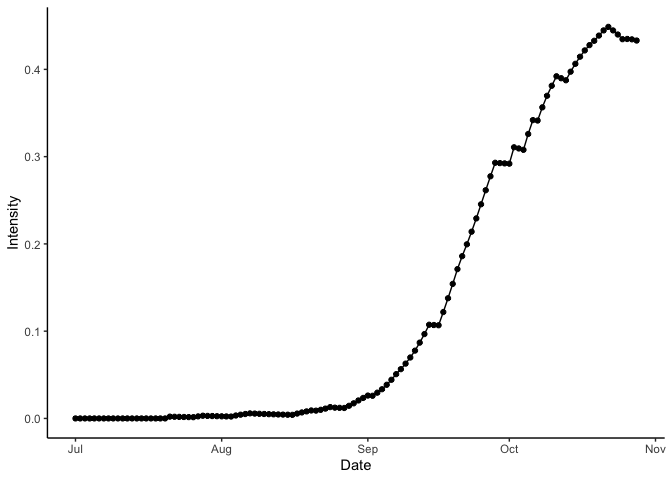
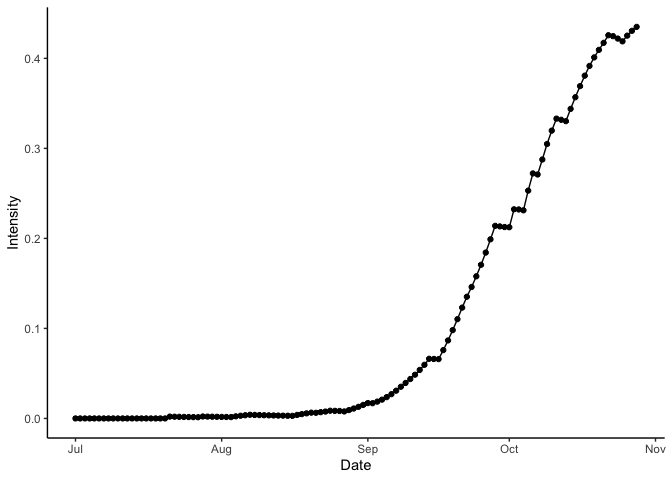
Reknit README with bug-fixed SEIR()

diff --git a/README.md b/README.md
@@ -97,30 +97,30 @@ transplanted rice.
 bb <- predict_bacterial_blight(wth, emergence = "2000-07-01")
 
 bb
-#>      simday      dates     sites   latent infectious  removed    senesced
-#>   1:      1 2000-07-01  100.0000  0.00000     0.0000   0.0000    0.000000
-#>   2:      2 2000-07-02  108.6875  0.00000     0.0000   0.0000    1.000000
-#>   3:      3 2000-07-03  118.1002  0.00000     0.0000   0.0000    2.086875
-#>   4:      4 2000-07-04  128.2934  0.00000     0.0000   0.0000    3.267877
-#>   5:      5 2000-07-05  139.3254  0.00000     0.0000   0.0000    4.550811
-#>  ---                                                                     
-#> 116:    116 2000-10-24 1189.7392 53.98388   880.6517 440.0734 2221.835013
-#> 117:    117 2000-10-25 1153.1921 35.83058   850.5259 488.3525 2282.011556
-#> 118:    118 2000-10-26 1109.5230 29.63849   824.0101 532.8853 2338.076260
-#> 119:    119 2000-10-27 1071.6977 22.15270   801.0138 573.6951 2389.981335
-#> 120:    120 2000-10-28 1033.1810 31.28753   757.8526 616.8564 2443.859534
-#>        rateinf rtransfer  rgrowth rsenesced diseased intensity     lat      lon
-#>   1:  0.000000   0.00000  9.68750  1.000000    0.000 0.0000000 14.6774 121.2556
-#>   2:  0.000000   0.00000 10.49959  1.086875    0.000 0.0000000 14.6774 121.2556
-#>   3:  0.000000   0.00000 11.37416  1.181002    0.000 0.0000000 14.6774 121.2556
-#>   4:  0.000000   0.00000 12.31499  1.282934    0.000 0.0000000 14.6774 121.2556
-#>   5:  0.000000   0.00000 13.32593  1.393254    0.000 0.0000000 14.6774 121.2556
-#>  ---                                                                           
-#> 116:  0.000000  18.15330 23.62940 60.176543 1374.709 0.4399580 14.6774 121.2556
-#> 117: 11.824954  18.01704 24.22060 56.064704 1374.709 0.4345846 14.6774 121.2556
-#> 118: 10.327744  17.81354 24.40753 51.905074 1386.534 0.4348314 14.6774 121.2556
-#> 119:  9.134832   0.00000 24.49635 53.878200 1396.862 0.4344198 14.6774 121.2556
-#> 120:  7.831815   0.00000 24.56460 55.340858 1405.996 0.4330412 14.6774 121.2556
+#>      simday      dates     sites    latent infectious  removed    senesced
+#>   1:      1 2000-07-01  100.0000   0.00000     0.0000   0.0000    0.000000
+#>   2:      2 2000-07-02  108.6875   0.00000     0.0000   0.0000    1.000000
+#>   3:      3 2000-07-03  118.1002   0.00000     0.0000   0.0000    2.086875
+#>   4:      4 2000-07-04  128.2934   0.00000     0.0000   0.0000    3.267877
+#>   5:      5 2000-07-05  139.3254   0.00000     0.0000   0.0000    4.550811
+#>  ---                                                                      
+#> 116:    116 2000-10-24 1453.0383 107.60598   953.2163 217.8993 2095.744599
+#> 117:    117 2000-10-25 1429.1891  77.30207   952.9399 248.4797 2140.855357
+#> 118:    118 2000-10-26 1380.4038  73.81997   947.4256 281.2134 2187.881013
+#> 119:    119 2000-10-27 1332.8691  69.34615   938.4942 315.9354 2236.407049
+#> 120:    120 2000-10-28 1286.3824  64.14358   926.0857 352.6359 2286.436253
+#>       rateinf rtransfer  rgrowth rsenesced diseased intensity     lat      lon
+#>   1:  0.00000   0.00000  9.68750  1.000000    0.000 0.0000000 14.6774 121.2556
+#>   2:  0.00000   0.00000 10.49959  1.086875    0.000 0.0000000 14.6774 121.2556
+#>   3:  0.00000   0.00000 11.37416  1.181002    0.000 0.0000000 14.6774 121.2556
+#>   4:  0.00000   0.00000 12.31499  1.282934    0.000 0.0000000 14.6774 121.2556
+#>   5:  0.00000   0.00000 13.32593  1.393254    0.000 0.0000000 14.6774 121.2556
+#>  ---                                                                          
+#> 116:  0.00000  30.30391 21.26159 45.110758 1278.722 0.4219893 14.6774 121.2556
+#> 117: 23.73737  27.21946 21.97777 47.025655 1278.722 0.4188944 14.6774 121.2556
+#> 118: 21.31678  25.79060 22.30807 48.526036 1302.459 0.4252267 14.6774 121.2556
+#> 119: 19.08944  24.29201 22.63192 50.029205 1323.776 0.4305705 14.6774 121.2556
+#> 120: 17.03536   0.00000 22.94393 47.492428 1342.865 0.4349575 14.6774 121.2556
 ```
 
 Lastly, you can visualise the result of the model run.
